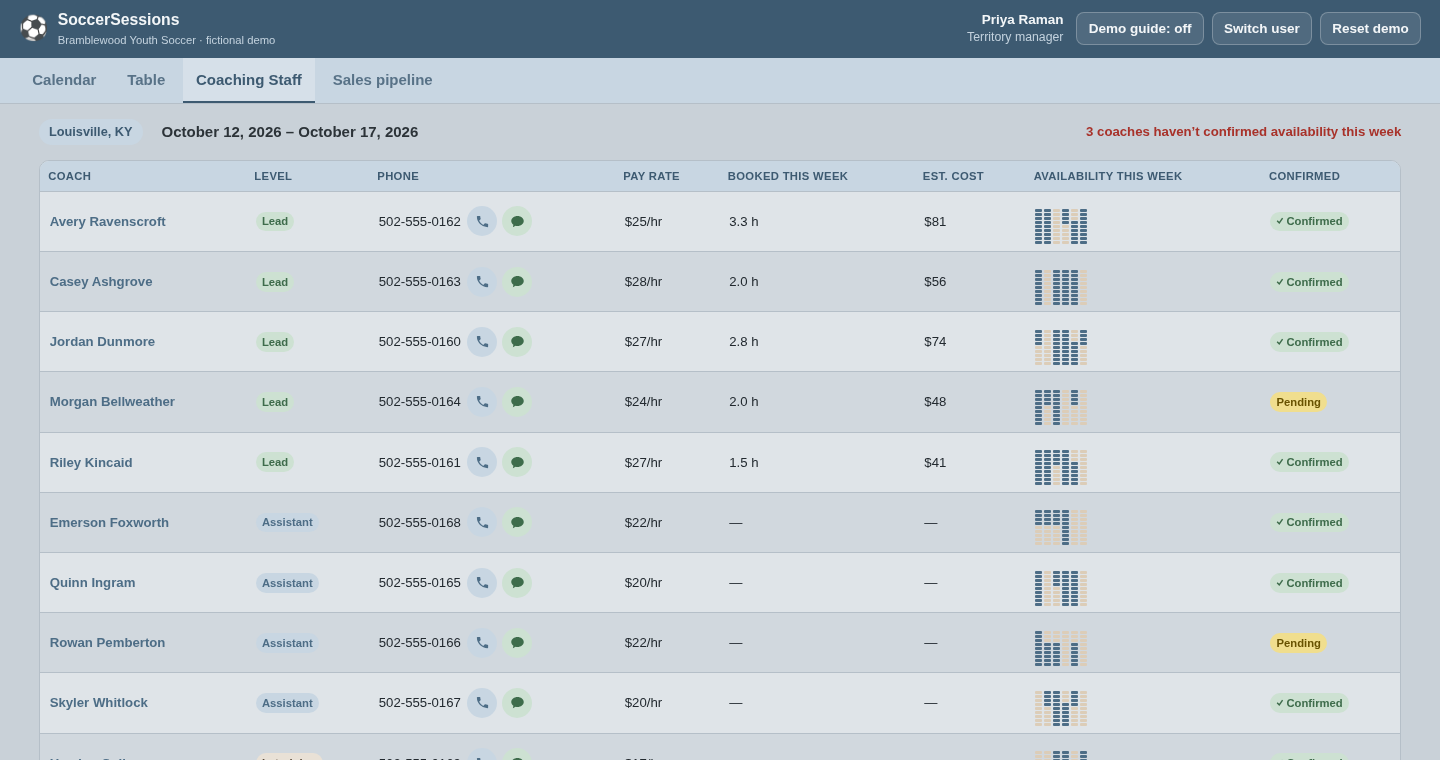
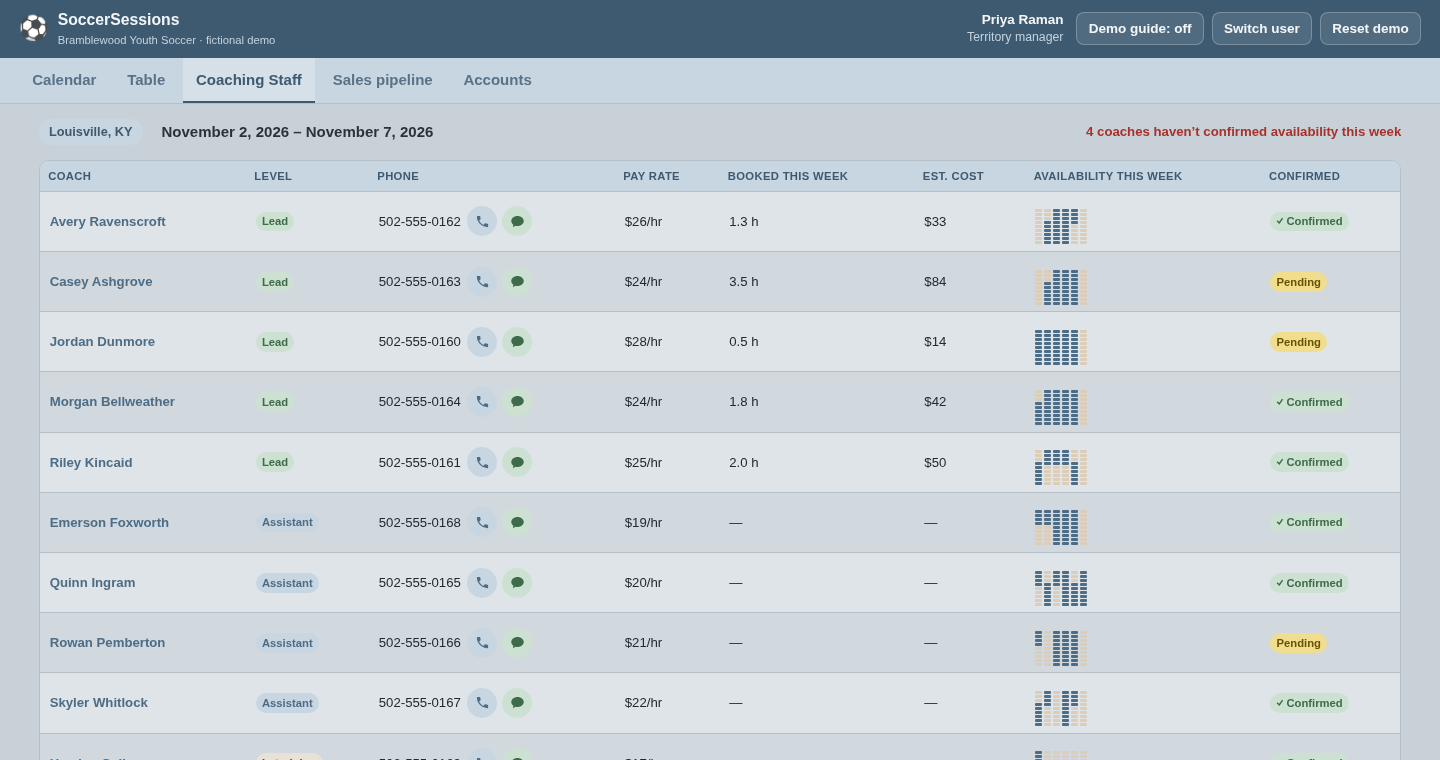
v3.0.0: the database version, complete
README section on the database version (sign-in by invitation, database-enforced
access rules, server-side changes with an audit log, what the tests prove) with
new screenshots; npm run screenshots:live makes them from the local database.
Demo screenshots regenerated, and the blocked-intake scenario now holds in every
week of demo data. Accounts plan closed out with steps for a hosted copy.

Claude-Session: https://claude.ai/code/session_01Nchr5nrcFasVLZaYGU2fGv

diff --git a/README.md b/README.md
@@ -1,6 +1,8 @@
 # SoccerSessions
 
-**Live demo: https://lyversemason.github.io/soccer-sessions/** (no login: pick a demo user)
+**Live demo: https://lyversemason.github.io/soccer-sessions/** (no login: pick a demo user).
+There's also a version with real sign-in and a shared database: see
+[The database version](#the-database-version-real-sign-in-shared-data).
 
 SoccerSessions is a scheduling, staffing-rules and sales-intake system for a field-service
 business: independent contractor coaches sent to daycares and schools across three
@@ -31,7 +33,8 @@ Turn on **Demo guide** (top right) for a short explanation on each screen.
    it shows who has confirmed and the day off, read-only.
 4. **Ops admin (Dana Whitfield).** The dashboard lists cycles ending in the next two weeks
    (renewal time). Change the safety buffer from 30 to 60 minutes and watch new
-   drive-time issues appear across territories.
+   drive-time issues appear across territories. Then open **Accounts**, invite a coach and
+   accept the invitation from the on-screen email, and find all of it in the **Audit log**.
 
 Everything you change is saved in your browser only. **Reset demo** restores it.
 
@@ -69,7 +72,63 @@ Everything you change is saved in your browser only. **Reset demo** restores it.
 </tr>
 </table>
 
+<table>
+<tr>
+<td><img src="docs/screenshots/10-accounts.png" alt="Accounts page with an invited coach"></td>
+<td><img src="docs/screenshots/11-audit-log.png" alt="Audit log"></td>
+</tr>
+<tr>
+<td>Accounts: people are invited, never handed a password; access is turned off, never deleted.</td>
+<td>Audit log: every logged change in the company, who made it and when.</td>
+</tr>
+</table>
+
 <img src="docs/screenshots/5-coach.png" alt="Coach phone view" width="320">
+
+## The database version: real sign-in, shared data
+
+The public demo runs entirely in your browser so anyone can try every role in a minute.
+The same app also runs against a real database with real accounts: built on Supabase
+(Postgres with sign-in) and tested end to end on a local copy in Docker. The plan, the
+decisions and what changed at each step are in [docs/accounts-plan.md](docs/accounts-plan.md).
+
+- **Invitation only, no passwords.** People are invited by email and sign in with a link
+  or a 6-digit code. There's no sign-up form, and an unknown address gets the same answer
+  as a known one, so the form can't reveal who works here.
+- **Who you are comes from your sign-in,** never from the page address.
+- **The database enforces the access rules.** Postgres row-level security mirrors
+  `src/engine/access.ts`: a Knoxville manager's browser never receives Louisville's
+  records, and pay rates and prices sit in tables coaches and reps can't read at all.
+- **Browsers can only read.** Every change goes to a server function that runs the same
+  action code as the demo, as the signed-in person, then saves the changed rows and
+  their audit entries in one transaction. Nothing is ever half saved.
+- **Nothing is deleted, and the audit log can only be added to.** The database refuses
+  both, even for server code with full access.
+- **Tested against the real thing.** 41 database tests sign in as all 42 people and check
+  each one reads exactly what `access.ts` allows, make every kind of change as the person
+  who'd really make it, and check that strangers, turned-off accounts, direct writes,
+  deletes and audit-log edits are all refused. Loosening a rule on purpose makes them
+  fail. GitHub runs them on every push.
+
+```
+browser ──reads──▶ Postgres, filtered by row-level security (= access.ts)
+   │
+   └── change ──▶ server function: same actions and rules as the demo, as the signed-in person
+                     └──▶ apply_changes: the changed rows + their audit entries, one transaction
+```
+
+<table>
+<tr>
+<td><img src="docs/screenshots/12-sign-in.png" alt="Sign-in screen"></td>
+<td><img src="docs/screenshots/13-invitation-email.png" alt="Invitation email with a sign-in code"></td>
+<td><img src="docs/screenshots/14-no-access.png" alt="No access after being turned off" width="260"></td>
+</tr>
+<tr>
+<td>Sign in with your work email: a link or a code, no password.</td>
+<td>The invitation a new coach receives.</td>
+<td>Turned off: locked out at once, history kept.</td>
+</tr>
+</table>
 
 ## How it was built
 
@@ -105,6 +164,12 @@ use.
    and a calmer, clearer design. The plain-language list is in the
    [changelog](CHANGELOG.md).
 
+6. **Planned before it was built.** The database version started as a written plan
+   ([docs/accounts-plan.md](docs/accounts-plan.md)): the approach, the open decisions
+   (provider, how coaches sign in, whether to run an online copy), and six phases, each
+   shipped as its own tested version. The demo kept working at every step. Problems the
+   tests caught along the way are written up in the plan and the changelog.
+
 Decisions I made where the original spec was silent are listed in
 [PLAN.md](PLAN.md#the-rules-engine).
 
@@ -113,22 +178,26 @@ Decisions I made where the original spec was silent are listed in
 ```
 src/engine/     Rules engine: types, time + distance, validation, coverage, lifecycle,
                 access, availability, program cycles
-src/data/       Actions (every change the app can make), the data source
-                (this browser's demo copy), database row conversion, fictional
-                company generator, ZIP lookup
+src/data/       Actions (every change the app can make), queries, the audit log, the
+                data sources (demo: this browser; live: the database), database row
+                conversion, fictional company generator, ZIP lookup
 src/store.ts    What the screens call; hands each change to the data source
+server/         The server function (bundled into supabase/functions/)
 src/views/      One screen per role or task (React)
-supabase/       Local database setup and the tables + read rules (migrations/)
-tests/          Vitest unit tests for the engine, actions, data source and demo data;
-                tests/db checks the database's read rules role by role
-scripts/        Screenshot generator for this README
+supabase/       Local database setup, email templates, and the tables + read rules
+                (migrations/)
+tests/          Vitest unit tests for the engine, actions, queries, audit log and demo
+                data; tests/db runs against the database, role by role
+scripts/        Local database helpers, the server function build, screenshots
 ```
 
 Built with TypeScript, React and Vite, and deployed to GitHub Pages by GitHub Actions
-on every push (tests must pass first). There's no backend: each visitor gets their own
-copy of the demo company in localStorage. A production version would add real sign-in,
-a shared database, a routing API for drive times and real text messages. (The address
-search is the one live outside call: typed addresses go to the free Photon service.)
+on every push (tests must pass first). The public demo has no backend: each visitor gets
+their own copy of the demo company in localStorage. The database version adds Supabase
+(Postgres, sign-in, a server function). A production deployment would add a hosted
+Supabase project with an email sending service, a routing API for drive times and real
+text messages. (The address search is the one live outside call: typed addresses go to
+the free Photon service.)
 
 ## Run it locally
 
@@ -148,6 +217,7 @@ npm run db:reset  # empty it and load the fictional company, with a sign-in per 
 npm run test:db   # sign in as every role: what each may read, and every kind of change saved
 npm run dev:live  # the app in live mode at http://127.0.0.1:5173: sign in by email
                   # (emails land in the local catcher at http://127.0.0.1:54324)
+npm run screenshots:live  # with dev:live running: the database version's screenshots
 npm run db:stop
 ```
 

diff --git a/docs/accounts-plan.md b/docs/accounts-plan.md
@@ -1,6 +1,6 @@
 # Plan: real sign-in and staff accounts
 
-Status: **Phases 1 to 5 done (v2.8.0, 2026-11-01)**; Phase 6 next.
+Status: **Done (v3.0.0, 2026-11-01).** All six phases are built and tested on a local database. A hosted online copy is optional and not set up (decision 3).
 
 Today SoccerSessions has no sign-in. The first screen is a "pick a demo user" page, the
 cast of users is fixed in `src/data/seed.ts`, and the current user is whoever is named in
@@ -206,7 +206,7 @@ Each phase ends with passing checks and its own version, per the changelog rules
 | 3 | Sign-in screen and live mode; identity from the session, not the address | Live mode only | v2.6.0 |
 | 4 | Invitations, Staff screen, deactivate / reactivate, guard rails (both modes) | Staff screen in the demo | v2.7.0 |
 | 5 | Audit log table and screen; server functions for rule-checked saves | Audit tab in the demo | v2.8.0 |
-| 6 | Live deployment, README and screenshots updated | New README section | v3.0.0 |
+| 6 | README section and screenshots (a hosted online copy stays optional) | New README section | v3.0.0 |
 
 ## Decisions (made 2026-11-01)
 
@@ -350,7 +350,23 @@ Notes for later:
   the database. Add paging if that's ever not enough.
 - Change notes that already used short dates ("Tue Nov 24") appear that way in the log.
 
-Next: **Phase 6**, the wrap-up: README section and screenshots for the database version
-(sign-in, Accounts, Audit log, live mode), then v3.0.0. A live online copy stays
-optional (decision 3); if wanted, it needs a Supabase account, an email sending
-service, and `SITE_URL` / keys set for the hosted project.
+**Phase 6 done (v3.0.0, 2026-11-01).** README section "The database version" with how a
+change travels and what the tests prove; new screenshots: Accounts and Audit log (demo,
+`npm run screenshots`) and sign-in, the invitation email and "No access"
+(`npm run screenshots:live`, which signs in with real codes from the local email
+catcher). All demo screenshots were regenerated. The blocked-intake screenshot now uses
+Saturdays with 40 kids, which is blocked in every week of demo data (the old 5 PM
+Tuesday scenario was coverable in some weeks).
+
+**The plan is complete.** If a hosted online copy is ever wanted:
+1. Create a Supabase project (an outside sign-up; the user does it or approves it).
+2. Link it and push the migrations (`supabase link`, `supabase db push`).
+3. Deploy the server function (`npm run db:start` builds it; `supabase functions deploy
+   run-action`).
+4. Set up an email sending service (SMTP) in the project: Supabase's own email is for
+   testing only. Copy the two email templates and subjects from `supabase/config.toml`.
+5. Set the site address and redirect URLs, keep sign-up off, and decide on the code
+   rate limit (hosted default: one per minute).
+6. Build the app with the project's URL and public key (`VITE_SUPABASE_URL`,
+   `VITE_SUPABASE_ANON_KEY`) and host it somewhere other than the public demo's address.
+7. Seed only what's real: no fictional company and no local password accounts.

diff --git a/PLAN.md b/PLAN.md
@@ -25,8 +25,8 @@ several cities. Before this system existed, three things went wrong over and ove
 
 | Role | Sees | Can do |
 |---|---|---|
-| Operations admin | Every territory | Everything a territory manager can, plus global settings (travel buffer, drive speed) and correcting a program's price after signing |
-| Territory manager | Only their territory | Calendar/table views, assign the coaching staff, override warnings, lifecycle changes, edit coaches (level, pay rate, contact, active), read program terms |
+| Operations admin | Every territory | Everything a territory manager can, plus global settings (travel buffer, drive speed), correcting a program's price after signing, everyone's accounts (invite, roles, turn access off and on) and the audit log |
+| Territory manager | Only their territory | Calendar/table views, assign the coaching staff, override warnings, lifecycle changes, edit coaches (level, pay rate, contact), invite coaches and turn their access off and on, read program terms |
 | Sales rep | The intake form and their own submissions | Submit a new center with its program terms (must pass the live coverage check); edit a submission until a territory manager confirms it |
 | Coach | Only their own shifts + their territory's coach directory | Confirm shifts (one or the whole week), tap-to-map, call/text buttons, own their availability: usual week, one-week changes, days off, weekly check-in |
 
@@ -126,11 +126,15 @@ week, directory, weekly availability), ops admin dashboard + settings.
 
 **v2:** everything in the section above.
 
+**v3 (the database version):** real sign-in by invitation, a shared database whose
+rules mirror the access rules, every change run on the server, the Accounts screen and
+the audit log. Built and tested locally; see [docs/accounts-plan.md](docs/accounts-plan.md).
+
 **Later:** real push/SMS reminders, hours × pay
 rate dashboard (week / month / 3-week pay cycle), calendar subscription (iCal feed),
 bulk copy of a cadence across N weeks, equipment bag inventory, address verification
-API, real authentication and a shared database (planned in
-[docs/accounts-plan.md](docs/accounts-plan.md)).
+API, and a hosted online copy of the database version (a Supabase project plus an email
+sending service).
 
 ## Architecture
 

diff --git a/CHANGELOG.md b/CHANGELOG.md
@@ -3,6 +3,34 @@
 Every version is tagged in git (`vX.Y.Z`). To restore one, check out its tag and
 commit it as a new version; history is never rewritten.
 
+## v3.0.0 (2026-11-01 ET): the database version, complete
+
+The accounts plan (docs/accounts-plan.md) is done: SoccerSessions now also runs with real
+sign-in and a shared database, built and tested on a local copy. The public demo works
+exactly as before, with no login.
+
+What v2.4.0 to v2.8.0 added, in one place:
+- Sign in by invitation only, with an email link or code; no passwords, no sign-up.
+- Who you are comes from your sign-in, not the page address.
+- The database enforces the access rules; pay and prices sit where only the right
+  people can read them.
+- Every change runs on a server function with the same rules as the demo, saved in
+  one transaction with its audit entries. Nothing is ever deleted.
+- Accounts (invite, turn access off and on, roles) and the Audit log, in the demo too.
+- 236 app tests and 41 database tests, the database ones also run by GitHub.
+
+This version itself:
+- README: a section on the database version (how a change travels, what the tests
+  prove) and new screenshots: Accounts, Audit log, sign-in, the invitation email and
+  "No access". Every demo screenshot was regenerated.
+- `npm run screenshots:live` makes the database version's screenshots, signing in with
+  real codes from the local email catcher.
+- The "blocked" sales screenshot now uses Saturdays with 40 kids, which the coaching
+  staff can't cover in any week of demo data.
+
+Restore this if: you want the README without the database version (v2.8.0); the app is
+the same.
+
 ## v2.8.0 (2026-11-01 ET): accounts plan, phase 5 (audit log, saving everything)
 
 Visible in the public demo: an **Audit log** tab for operations admins.
